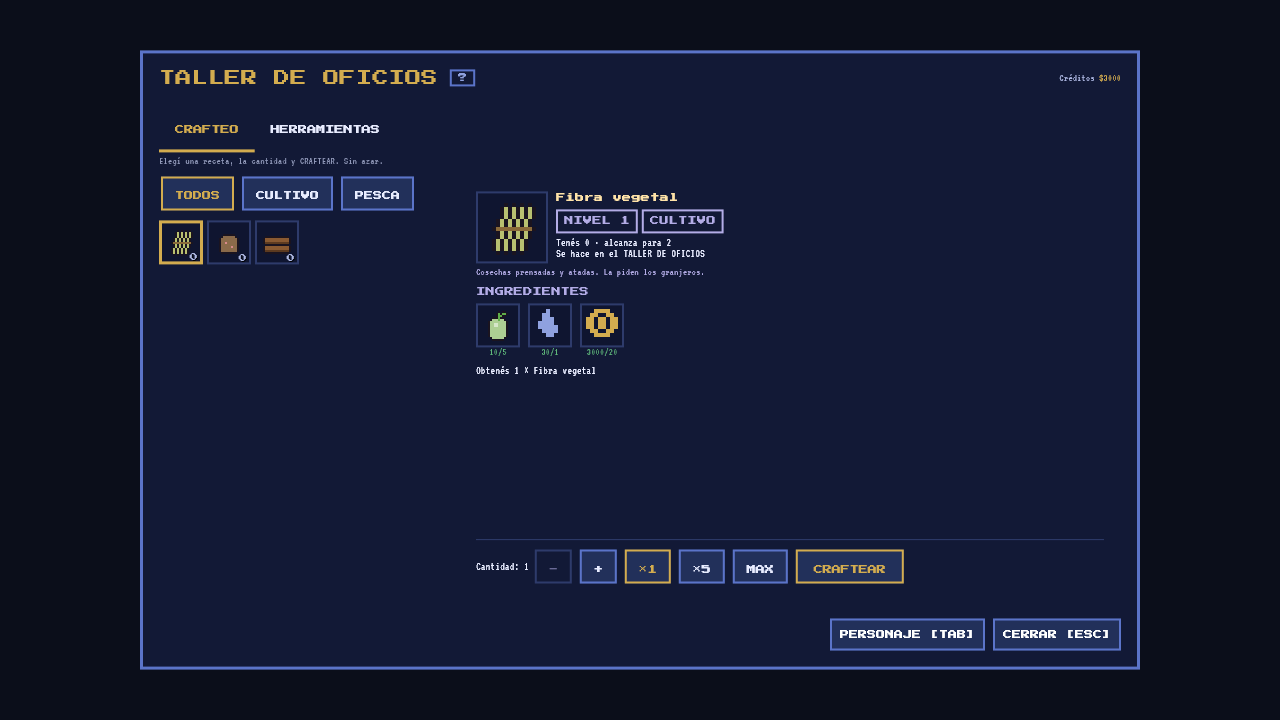
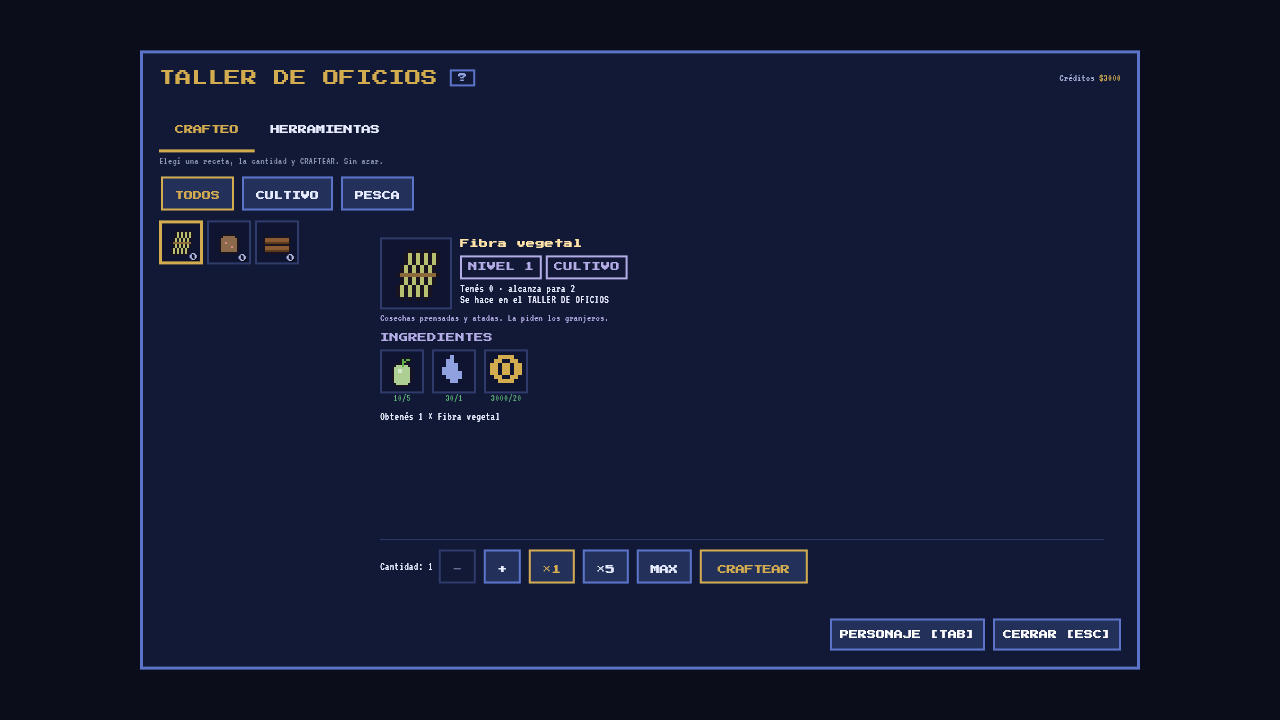
fix(town): chip PICOS en mayúsculas y filtros del crafteo en una fila

Changed region(s): [[0.2812, 0.2444, 0.5625, 0.5806], [0.3125, 0.7639, 0.7188, 0.825]]

diff --git a/lib/features/inventory/presentation/workshop_panel.dart b/lib/features/inventory/presentation/workshop_panel.dart
@@ -72,9 +72,10 @@ class _WorkshopPanelState extends State<WorkshopPanel> {
         fill: true,
         help: workshopHelp(context),
         onClose: close,
-        titleTrailing: ProtoText(s.t('ui.inventory.workshop.credits',
-            {'credits': '₵${p.credits}'})),
-        header: PartyMemberBar.header(view, controller, const SizedBox.shrink()),
+        titleTrailing: ProtoText(
+            s.t('ui.inventory.workshop.credits', {'credits': '₵${p.credits}'})),
+        header:
+            PartyMemberBar.header(view, controller, const SizedBox.shrink()),
         actions: [
           PanelButton(s.t('ui.inventory.armory.character'),
               onPressed: () => controller.openPanel(WorldPanel.character)),
@@ -130,8 +131,9 @@ class WorkshopGrid extends StatefulWidget {
 
   final ShopContext shop;
 
-  /// Grid column: 6 inventory cells (the three filter chips fit in a row).
-  static const gridWidth = LifeItemGrid.cell * 6 + LifeItemGrid.gap * 5 + 8;
+  /// Grid column: 4 inventory cells per row (few recipes: the detail
+  /// gets the rest of the width).
+  static const gridWidth = LifeItemGrid.cell * 4 + LifeItemGrid.gap * 3 + 8;
 
   @override
   State<WorkshopGrid> createState() => _WorkshopGridState();
@@ -221,8 +223,8 @@ class _WorkshopGridState extends State<WorkshopGrid> {
         detail: i.detail,
         children: [
           Text(
-              invStrings(context).t('ui.town.source.have_need',
-                  {'have': i.have, 'need': i.need}),
+              invStrings(context).t(
+                  'ui.town.source.have_need', {'have': i.have, 'need': i.need}),
               style: DsText.body(
                   i.have >= i.need ? DsColors.success : DsColors.danger)),
           for (final l in i.sources) Text(l, style: DsText.body()),
@@ -265,20 +267,23 @@ class _WorkshopGridState extends State<WorkshopGrid> {
     ];
     final sel = ids.contains(_sel) ? _sel : ids.firstOrNull;
     final s = invStrings(context);
-    final filters =
-        Wrap(spacing: DsSpace.xs, runSpacing: DsSpace.xs, children: [
-      for (var i = 0; i < _tags.length; i++)
-        DsButton(
-            s.t(switch (i) {
-              0 => 'ui.inventory.workshop.filter.all',
-              1 => 'ui.inventory.workshop.filter.farming',
-              _ => 'ui.inventory.workshop.filter.fishing',
-            }),
-            key: ValueKey('workshop-filter-$i'),
-            size: DsButtonSize.compact,
-            selected: _filter == i,
-            onPressed: () => setState(() => _filter = i)),
-    ]);
+    final filters = Wrap(
+        key: const ValueKey('workshop-filters'),
+        spacing: DsSpace.xs,
+        runSpacing: DsSpace.xs,
+        children: [
+          for (var i = 0; i < _tags.length; i++)
+            DsButton(
+                s.t(switch (i) {
+                  0 => 'ui.inventory.workshop.filter.all',
+                  1 => 'ui.inventory.workshop.filter.farming',
+                  _ => 'ui.inventory.workshop.filter.fishing',
+                }),
+                key: ValueKey('workshop-filter-$i'),
+                size: DsButtonSize.compact,
+                selected: _filter == i,
+                onPressed: () => setState(() => _filter = i)),
+        ]);
     final grid = Wrap(
       spacing: LifeItemGrid.gap,
       runSpacing: LifeItemGrid.gap,
@@ -304,37 +309,45 @@ class _WorkshopGridState extends State<WorkshopGrid> {
           ),
       ],
     );
-    return LayoutBuilder(builder: (context, box) {
-      final left = Column(
-        crossAxisAlignment: CrossAxisAlignment.start,
-        mainAxisSize: MainAxisSize.min,
-        children: [filters, SizedBox(height: DsSpace.sm), grid],
-      );
-      final detail = sel == null
-          ? null
-          : KeyedSubtree(
-              key: const ValueKey('workshop-detail'),
-              child: _detail(context, sel));
-      if (box.maxWidth >= 560 && box.hasBoundedHeight) {
-        return Row(crossAxisAlignment: CrossAxisAlignment.stretch, children: [
-          SizedBox(
-              width: WorkshopGrid.gridWidth,
-              child: SingleChildScrollView(child: left)),
-          SizedBox(width: DsSpace.sm),
-          if (detail != null) Expanded(child: detail),
-        ]);
-      }
-      return SingleChildScrollView(
-        child: Column(
-            crossAxisAlignment: CrossAxisAlignment.stretch,
-            mainAxisSize: MainAxisSize.min,
-            children: [
-              left,
-              SizedBox(height: DsSpace.sm),
-              if (detail != null) SizedBox(height: 460, child: detail),
-            ]),
-      );
-    });
+    final detail = sel == null
+        ? null
+        : KeyedSubtree(
+            key: const ValueKey('workshop-detail'),
+            child: _detail(context, sel));
+    // Filter chips in one row across the panel; under them, the recipe
+    // grid (narrow column) and the detail filling the rest.
+    return Column(
+      crossAxisAlignment: CrossAxisAlignment.stretch,
+      children: [
+        filters,
+        SizedBox(height: DsSpace.sm),
+        Expanded(
+          child: LayoutBuilder(builder: (context, box) {
+            if (box.maxWidth >= 560) {
+              return Row(
+                  crossAxisAlignment: CrossAxisAlignment.stretch,
+                  children: [
+                    SizedBox(
+                        width: WorkshopGrid.gridWidth,
+                        child: SingleChildScrollView(child: grid)),
+                    SizedBox(width: DsSpace.sm),
+                    if (detail != null) Expanded(child: detail),
+                  ]);
+            }
+            return SingleChildScrollView(
+              child: Column(
+                  crossAxisAlignment: CrossAxisAlignment.stretch,
+                  mainAxisSize: MainAxisSize.min,
+                  children: [
+                    grid,
+                    SizedBox(height: DsSpace.sm),
+                    if (detail != null) SizedBox(height: 460, child: detail),
+                  ]),
+            );
+          }),
+        ),
+      ],
+    );
   }
 
   Widget _detail(BuildContext context, String id) {
@@ -343,8 +356,8 @@ class _WorkshopGridState extends State<WorkshopGrid> {
     final max = LifeCraftRules.maxTimes(p, id);
     final inWorld = widget.shop.view.session.run == null;
     final n = _qty.clamp(1, LifeCraftRules.maxStack);
-    final a = CraftAction(CraftOp.condense, '${LifeCraftRules.prefix}$id',
-        index: n);
+    final a =
+        CraftAction(CraftOp.condense, '${LifeCraftRules.prefix}$id', index: n);
     final why = !inWorld
         ? s.t('ui.inventory.workshop.world_only')
         : max < n

diff --git a/lib/features/world/presentation/panels/tool_shop_grid.dart b/lib/features/world/presentation/panels/tool_shop_grid.dart
@@ -34,16 +34,13 @@ class ToolShopGrid extends StatelessWidget {
         groups: [
           LifeItemGroup(context.t('ui.town.trader.kind.rods'), _rods(context),
               headerKey: const ValueKey('tools-filter-rods')),
-          LifeItemGroup(
-              context.t('ui.town.trader.kind.hoes'),
+          LifeItemGroup(context.t('ui.town.trader.kind.hoes'),
               _farm(context, FarmToolKind.azada),
               headerKey: const ValueKey('tools-filter-hoes')),
-          LifeItemGroup(
-              context.t('ui.town.trader.kind.cans'),
+          LifeItemGroup(context.t('ui.town.trader.kind.cans'),
               _farm(context, FarmToolKind.regadera),
               headerKey: const ValueKey('tools-filter-cans')),
-          LifeItemGroup(context.t('ui.town.trader.kind.mine_tools'),
-              _picks(context),
+          LifeItemGroup(context.t('ui.town.trader.kind.picks'), _picks(context),
               headerKey: const ValueKey('tools-filter-picks')),
         ],
         empty: context.t('ui.town.trader.nothing_to_buy'),
@@ -187,10 +184,14 @@ class ToolShopGrid extends StatelessWidget {
                 nameColor: DsColors.textPrimary,
                 itemId: t.id,
                 tags: [
-                  (context.t('ui.town.trader.kind.mine_tools'),
-                      DsColors.textSecondary),
-                  (context.t('ui.inventory.workshop.tier', {'n': t.tier}),
-                      DsColors.textSecondary),
+                  (
+                    context.t('ui.town.trader.kind.picks'),
+                    DsColors.textSecondary
+                  ),
+                  (
+                    context.t('ui.inventory.workshop.tier', {'n': t.tier}),
+                    DsColors.textSecondary
+                  ),
                 ],
                 lines: [
                   context.t('ui.town.trader.price', {'n': price}),
